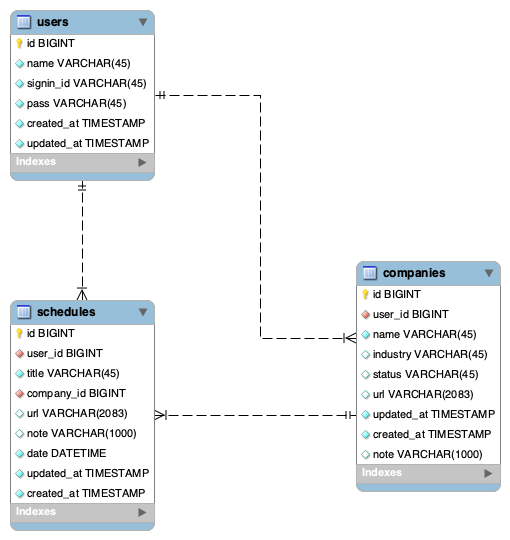
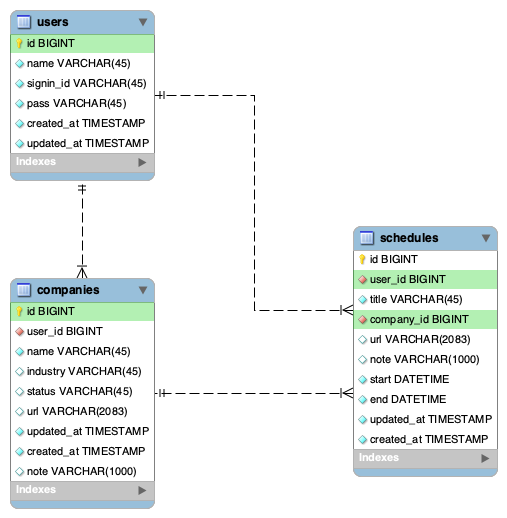
schedules の date を start と end に変更

diff --git a/utils/src/schedules_fixture.ts b/utils/src/schedules_fixture.ts
@@ -10,14 +10,16 @@ export interface Schedule {
   company?: Company;
   url?: string;
   note?: string;
-  date: Date;
+  start: Date;
+  end: Date;
 }
 
 export default class ScheduleFixture {
   private schedule: Schedule = {
     id: idgen(),
     title: 'title',
-    date: new Date(),
+    start: new Date(),
+    end: new Date(),
   };
 
   public id(id: number): ScheduleFixture {
@@ -30,8 +32,13 @@ export default class ScheduleFixture {
     return this;
   }
 
-  public date(date: Date): ScheduleFixture {
-    this.schedule.date = date;
+  public start(start: Date): ScheduleFixture {
+    this.schedule.start = start;
+    return this;
+  }
+
+  public end(end: Date): ScheduleFixture {
+    this.schedule.end = end;
     return this;
   }
 
@@ -60,7 +67,7 @@ export default class ScheduleFixture {
 
     await connection().then((c: Connection) => {
       c.query(
-        'insert into schedules(id, user_id, title, company_id, url, note, date) values(?, ?, ?, ?, ?, ?, ?)',
+        'insert into schedules(id, user_id, title, company_id, url, note, start, end) values(?, ?, ?, ?, ?, ?, ?, ?)',
         [
           this.schedule.id,
           this.schedule.user?.id,
@@ -68,7 +75,8 @@ export default class ScheduleFixture {
           this.schedule.company?.id,
           this.schedule.url,
           this.schedule.note,
-          this.schedule.date,
+          this.schedule.start,
+          this.schedule.end,
         ]
       );
       c.end();

diff --git a/doc/api/schedules.md b/doc/api/schedules.md
@@ -20,7 +20,8 @@ GET /api/schedules
 | schedule[].company_name | string | 会社名               |
 | schedule[].url          | array  | url                  |
 | schedule[].note         | string | メモ                 |
-| schedule[].date         | Date   | 日程（ISO 8601 形式) |
+| schedule[].start        | Date   | 日程（ISO 8601 形式) |
+| schedule[].end          | Date   | 日程（ISO 8601 形式) |
 
 ```javascript
 {
@@ -32,7 +33,8 @@ GET /api/schedules
             "company_name": string,
             "url":string,
             "note": string,
-            "date": Date
+            "start": Date,
+            "end": Date,
         },
         ...
     ]
@@ -59,7 +61,8 @@ GET /api/schedules/{schedule_id}
 | company_name | string | 会社名               |
 | url          | array  | url                  |
 | note         | string | メモ                 |
-| date         | Date   | 日程（ISO 8601 形式) |
+| start        | Date   | 日程（ISO 8601 形式) |
+| end          | Date   | 日程（ISO 8601 形式) |
 
 ```javascript
 {
@@ -69,7 +72,8 @@ GET /api/schedules/{schedule_id}
     "company_name": string,
     "url":string,
     "note": string,
-    "date": Date
+    "start": Date,
+    "end": Date,
 }
 ```
 
@@ -88,7 +92,8 @@ POST /api/schedules
 | company_name | string | 会社名               |
 | url          | array  | url                  |
 | note         | string | メモ                 |
-| date         | Date   | 日程（ISO 8601 形式) |
+| start        | Date   | 日程（ISO 8601 形式) |
+| end          | Date   | 日程（ISO 8601 形式) |
 
 ```javascript
 {
@@ -97,7 +102,8 @@ POST /api/schedules
     "company_name": string,
     "url":string,
     "note": string,
-    "date": Date
+    "start": Date,
+    "end": Date,
 }
 ```
 
@@ -111,7 +117,8 @@ POST /api/schedules
 | company_name | string | 会社名               |
 | url          | array  | url                  |
 | note         | string | メモ                 |
-| date         | Date   | 日程（ISO 8601 形式) |
+| start        | Date   | 日程（ISO 8601 形式) |
+| end          | Date   | 日程（ISO 8601 形式) |
 
 ```javascript
 {
@@ -121,7 +128,8 @@ POST /api/schedules
     "company_name": string,
     "url":string,
     "note": string,
-    "date": Date
+    "start": Date,
+    "end": Date,
 }
 ```
 
@@ -140,7 +148,8 @@ POST /api/schedules/{schedule_id}
 | company_name | string | 会社名               |
 | url          | array  | url                  |
 | note         | string | メモ                 |
-| date         | Date   | 日程（ISO 8601 形式) |
+| start        | Date   | 日程（ISO 8601 形式) |
+| end          | Date   | 日程（ISO 8601 形式) |
 
 ```javascript
 {
@@ -149,7 +158,8 @@ POST /api/schedules/{schedule_id}
     "company_name": string,
     "url":string,
     "note": string,
-    "date": Date
+    "start": Date,
+    "end": Date,
 }
 ```
 
@@ -163,7 +173,8 @@ POST /api/schedules/{schedule_id}
 | company_name | string | 会社名               |
 | url          | array  | url                  |
 | note         | string | メモ                 |
-| date         | Date   | 日程（ISO 8601 形式) |
+| start        | Date   | 日程（ISO 8601 形式) |
+| end          | Date   | 日程（ISO 8601 形式) |
 
 ```javascript
 {
@@ -173,7 +184,8 @@ POST /api/schedules/{schedule_id}
     "company_name": string,
     "url":string,
     "note": string,
-    "date": Date
+    "start": Date,
+    "end": Date,
 }
 ```
 

diff --git a/doc/api/companies.md b/doc/api/companies.md
@@ -87,7 +87,8 @@ GET /api/companies/{company_id}/schedules
 | schedule[].company_name | string | 会社名               |
 | schedule[].url          | array  | url                  |
 | schedule[].note         | string | メモ                 |
-| schedule[].date         | Date   | 日程（ISO 8601 形式) |
+| schedule[].start        | Date   | 日程（ISO 8601 形式) |
+| schedule[].end          | Date   | 日程（ISO 8601 形式) |
 
 ```javascript
 {
@@ -99,7 +100,8 @@ GET /api/companies/{company_id}/schedules
             "company_name": string,
             "url":string,
             "note": string,
-            "date": Date
+            "start": Date,
+            "end": Date,
         },
         ...
     ]

diff --git a/doc/db/db.md b/doc/db/db.md
@@ -21,7 +21,8 @@
 | company_id | BIGINT        | fk       |
 | url        | VARCHAR(2083) |
 | note       | VARCHAR(1000) |
-| date       | DATETIME      | NOT NULL |
+| start      | DATETIME      | NOT NULL |
+| end        | DATETIME      | NOT NULL |
 | updated_at | TIMESTAMP     | NOT NULL |
 | created_at | TIMESTAMP     | NOT NULL |
 
